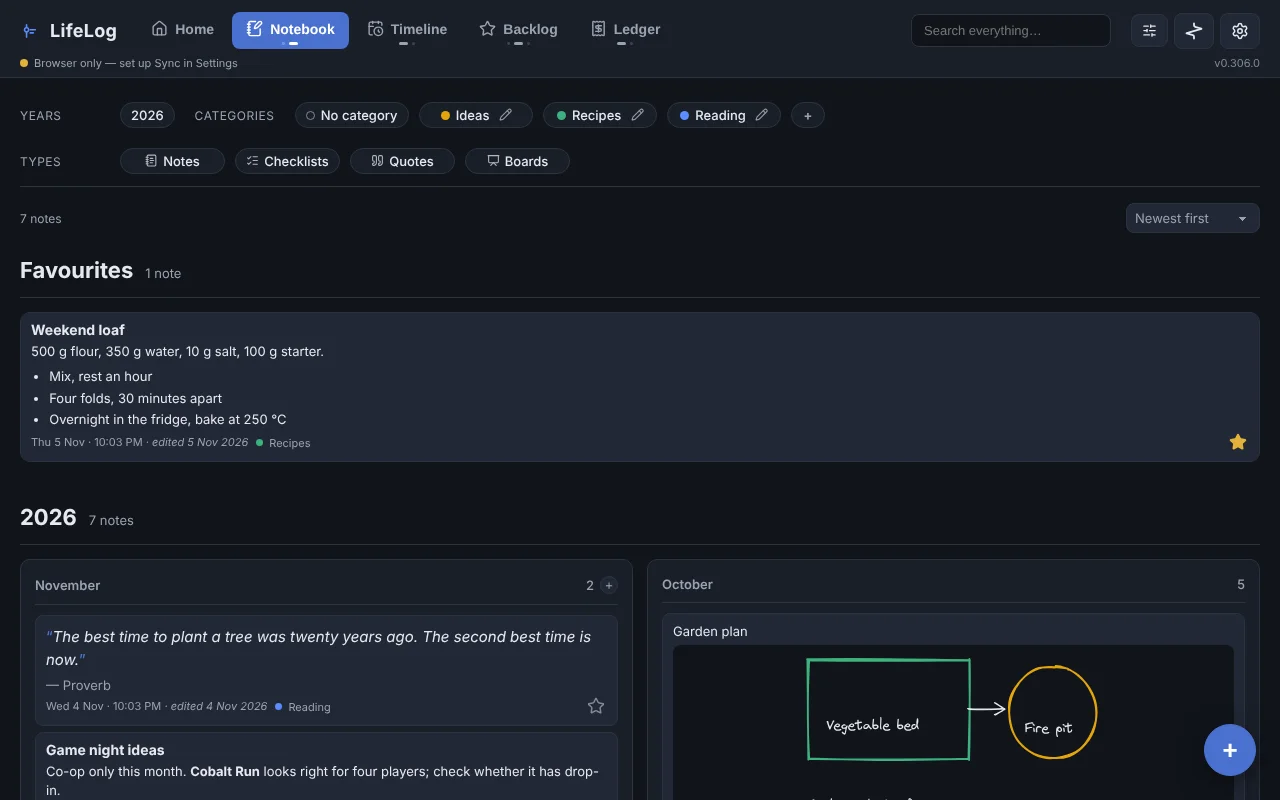
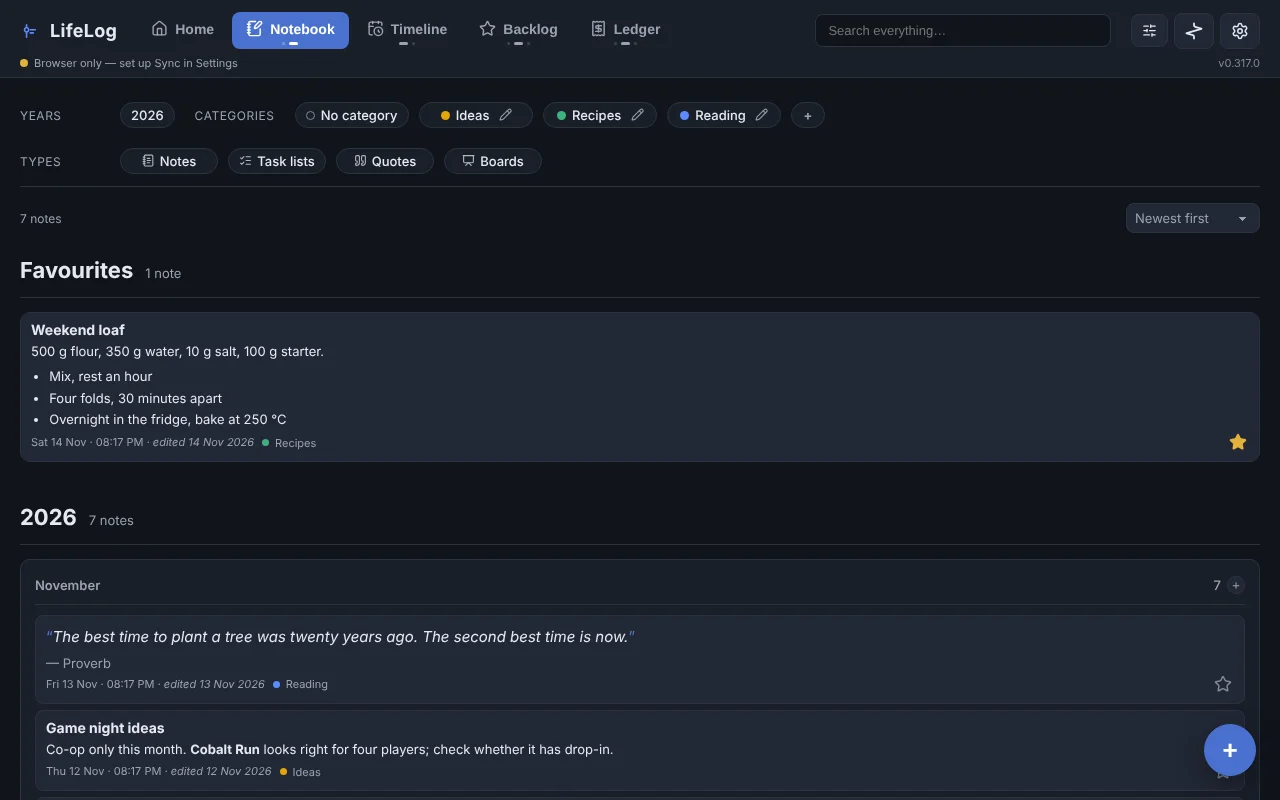
README shots: demo tasks on Home, Notebook and the Timeline calendar
Claude-Session: https://claude.ai/code/session_01CFeKrhBaQqVo1ekAQ5B4Au

diff --git a/tools/readme-shots.js b/tools/readme-shots.js
@@ -128,9 +128,12 @@ function buildData() {
   ];
   const note = (ago, extra) => ({ id: id(), createdAt: iso(daysAgo(ago)), editedAt: iso(daysAgo(ago)), ...extra });
   const notes = [
-    note(9, { kind: "list", category: "Ideas", items: [
-      { id: id(), text: "Book the campsite" }, { id: id(), text: "Fix the bike's back brake", done: true, doneAt: iso(daysAgo(1)) },
-      { id: id(), text: "Return library books" }, { id: id(), text: "Call about the internet plan" }] }),
+    note(9, { kind: "list", text: "Weekend trip", category: "Ideas", items: [
+      { id: "task1", text: "Book the campsite", priority: 1, date: ymd(NOW), time: "18:00", remind: 30, note: "The lake site, two nights" },
+      { id: id(), text: "Check the weather", parent: "task1", done: true, doneAt: iso(daysAgo(1)) }, { id: id(), text: "Pay the deposit", parent: "task1" },
+      { id: id(), text: "Fix the bike's back brake", done: true, doneAt: iso(daysAgo(1)) },
+      { id: id(), text: "Return library books", date: ymd(daysAgo(1)) }, { id: id(), text: "Water the plants", date: ymd(daysAgo(-2)), repeat: { every: 3, unit: "day" } },
+      { id: id(), text: "Call about the internet plan" }] }),
     note(1, { title: "Weekend loaf", category: "Recipes", fav: true, pinned: true, text: "500 g flour, 350 g water, 10 g salt, 100 g starter.\n\n- Mix, rest an hour\n- Four folds, 30 minutes apart\n- Overnight in the fridge, bake at 250 °C" }),
     note(2, { kind: "quote", text: "The best time to plant a tree was twenty years ago. The second best time is now.", author: "Proverb", category: "Reading" }),
     note(3, { title: "Game night ideas", category: "Ideas", pinned: true, text: "Co-op only this month. **Cobalt Run** looks right for four players; check whether it has drop-in." }),
